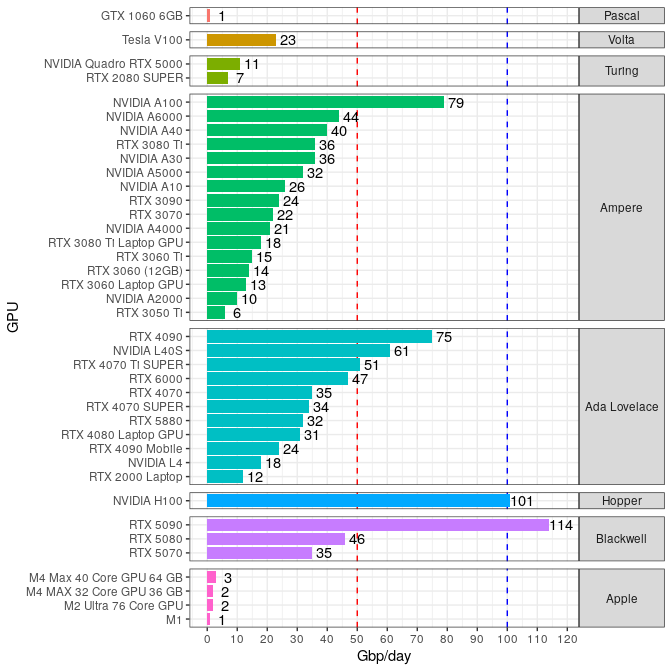
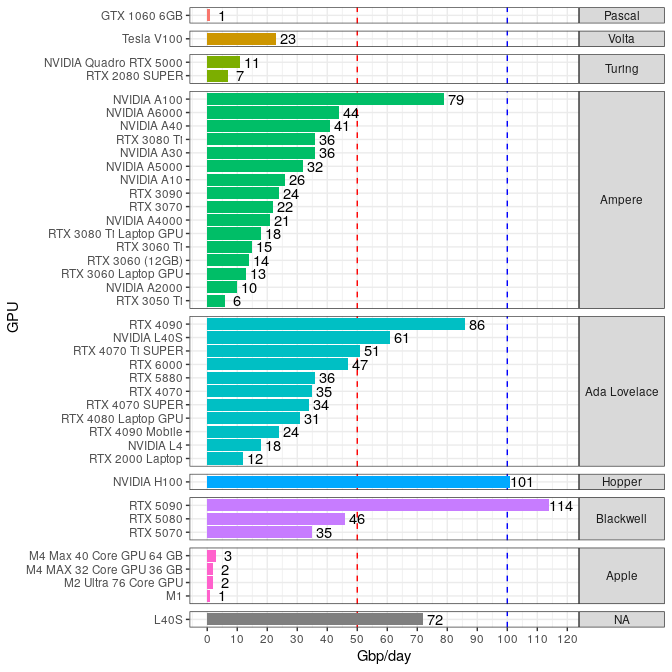
added L40S, A40 and 4090 with dorado 1

Changed region(s): [[0.0312, 0.0312, 1.0, 0.9375], [0.875, 0.5625, 0.9688, 0.625], [0.875, 0.2812, 0.9688, 0.3125]]

diff --git a/README.md b/README.md
@@ -1,7 +1,7 @@
 README
 ================
 Rasmus Kirkegaard
-04 June, 2025
+06 June, 2025
 
 ## Aim
 
